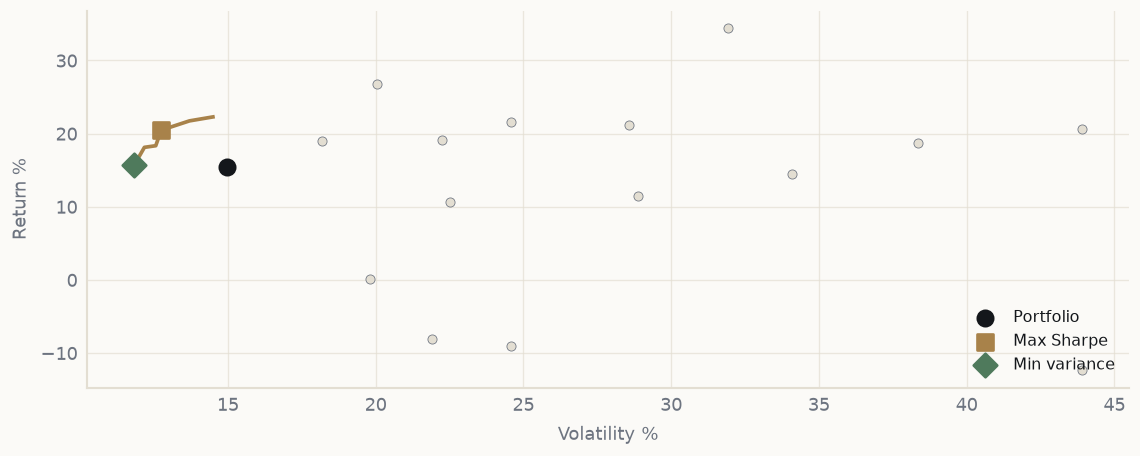
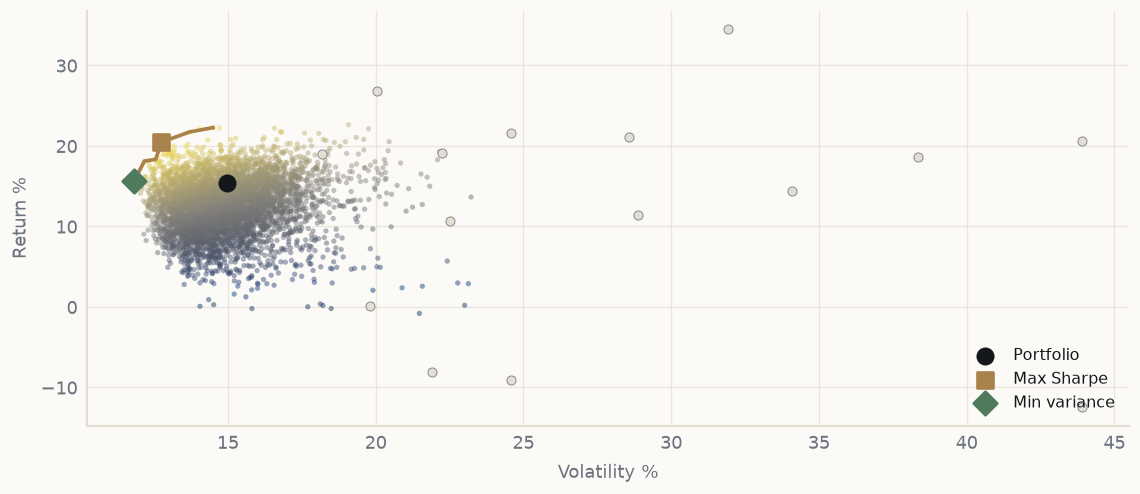
report: plot the full simulated portfolio cloud in the mean-variance figure

diff --git a/services/report_charts.py b/services/report_charts.py
@@ -216,8 +216,14 @@ def _efficient_frontier(charts):
     frontier = ef.get("frontier") or []
     if not frontier:
         return
-    fig, ax = plt.subplots(figsize=(6.0, 2.4))
+    fig, ax = plt.subplots(figsize=(6.0, 2.6))
     _style(ax)
+    random = ef.get("random_portfolios") or {}
+    if random.get("volatility") and random.get("returns"):
+        ax.scatter([v * 100 for v in random["volatility"]],
+                   [r * 100 for r in random["returns"]],
+                   s=4, alpha=0.45, c=random.get("sharpe") or None,
+                   cmap="cividis", linewidths=0, zorder=1)
     assets = ef.get("individual_assets") or []
     if assets:
         ax.scatter([a.get("volatility", 0) * 100 for a in assets],
